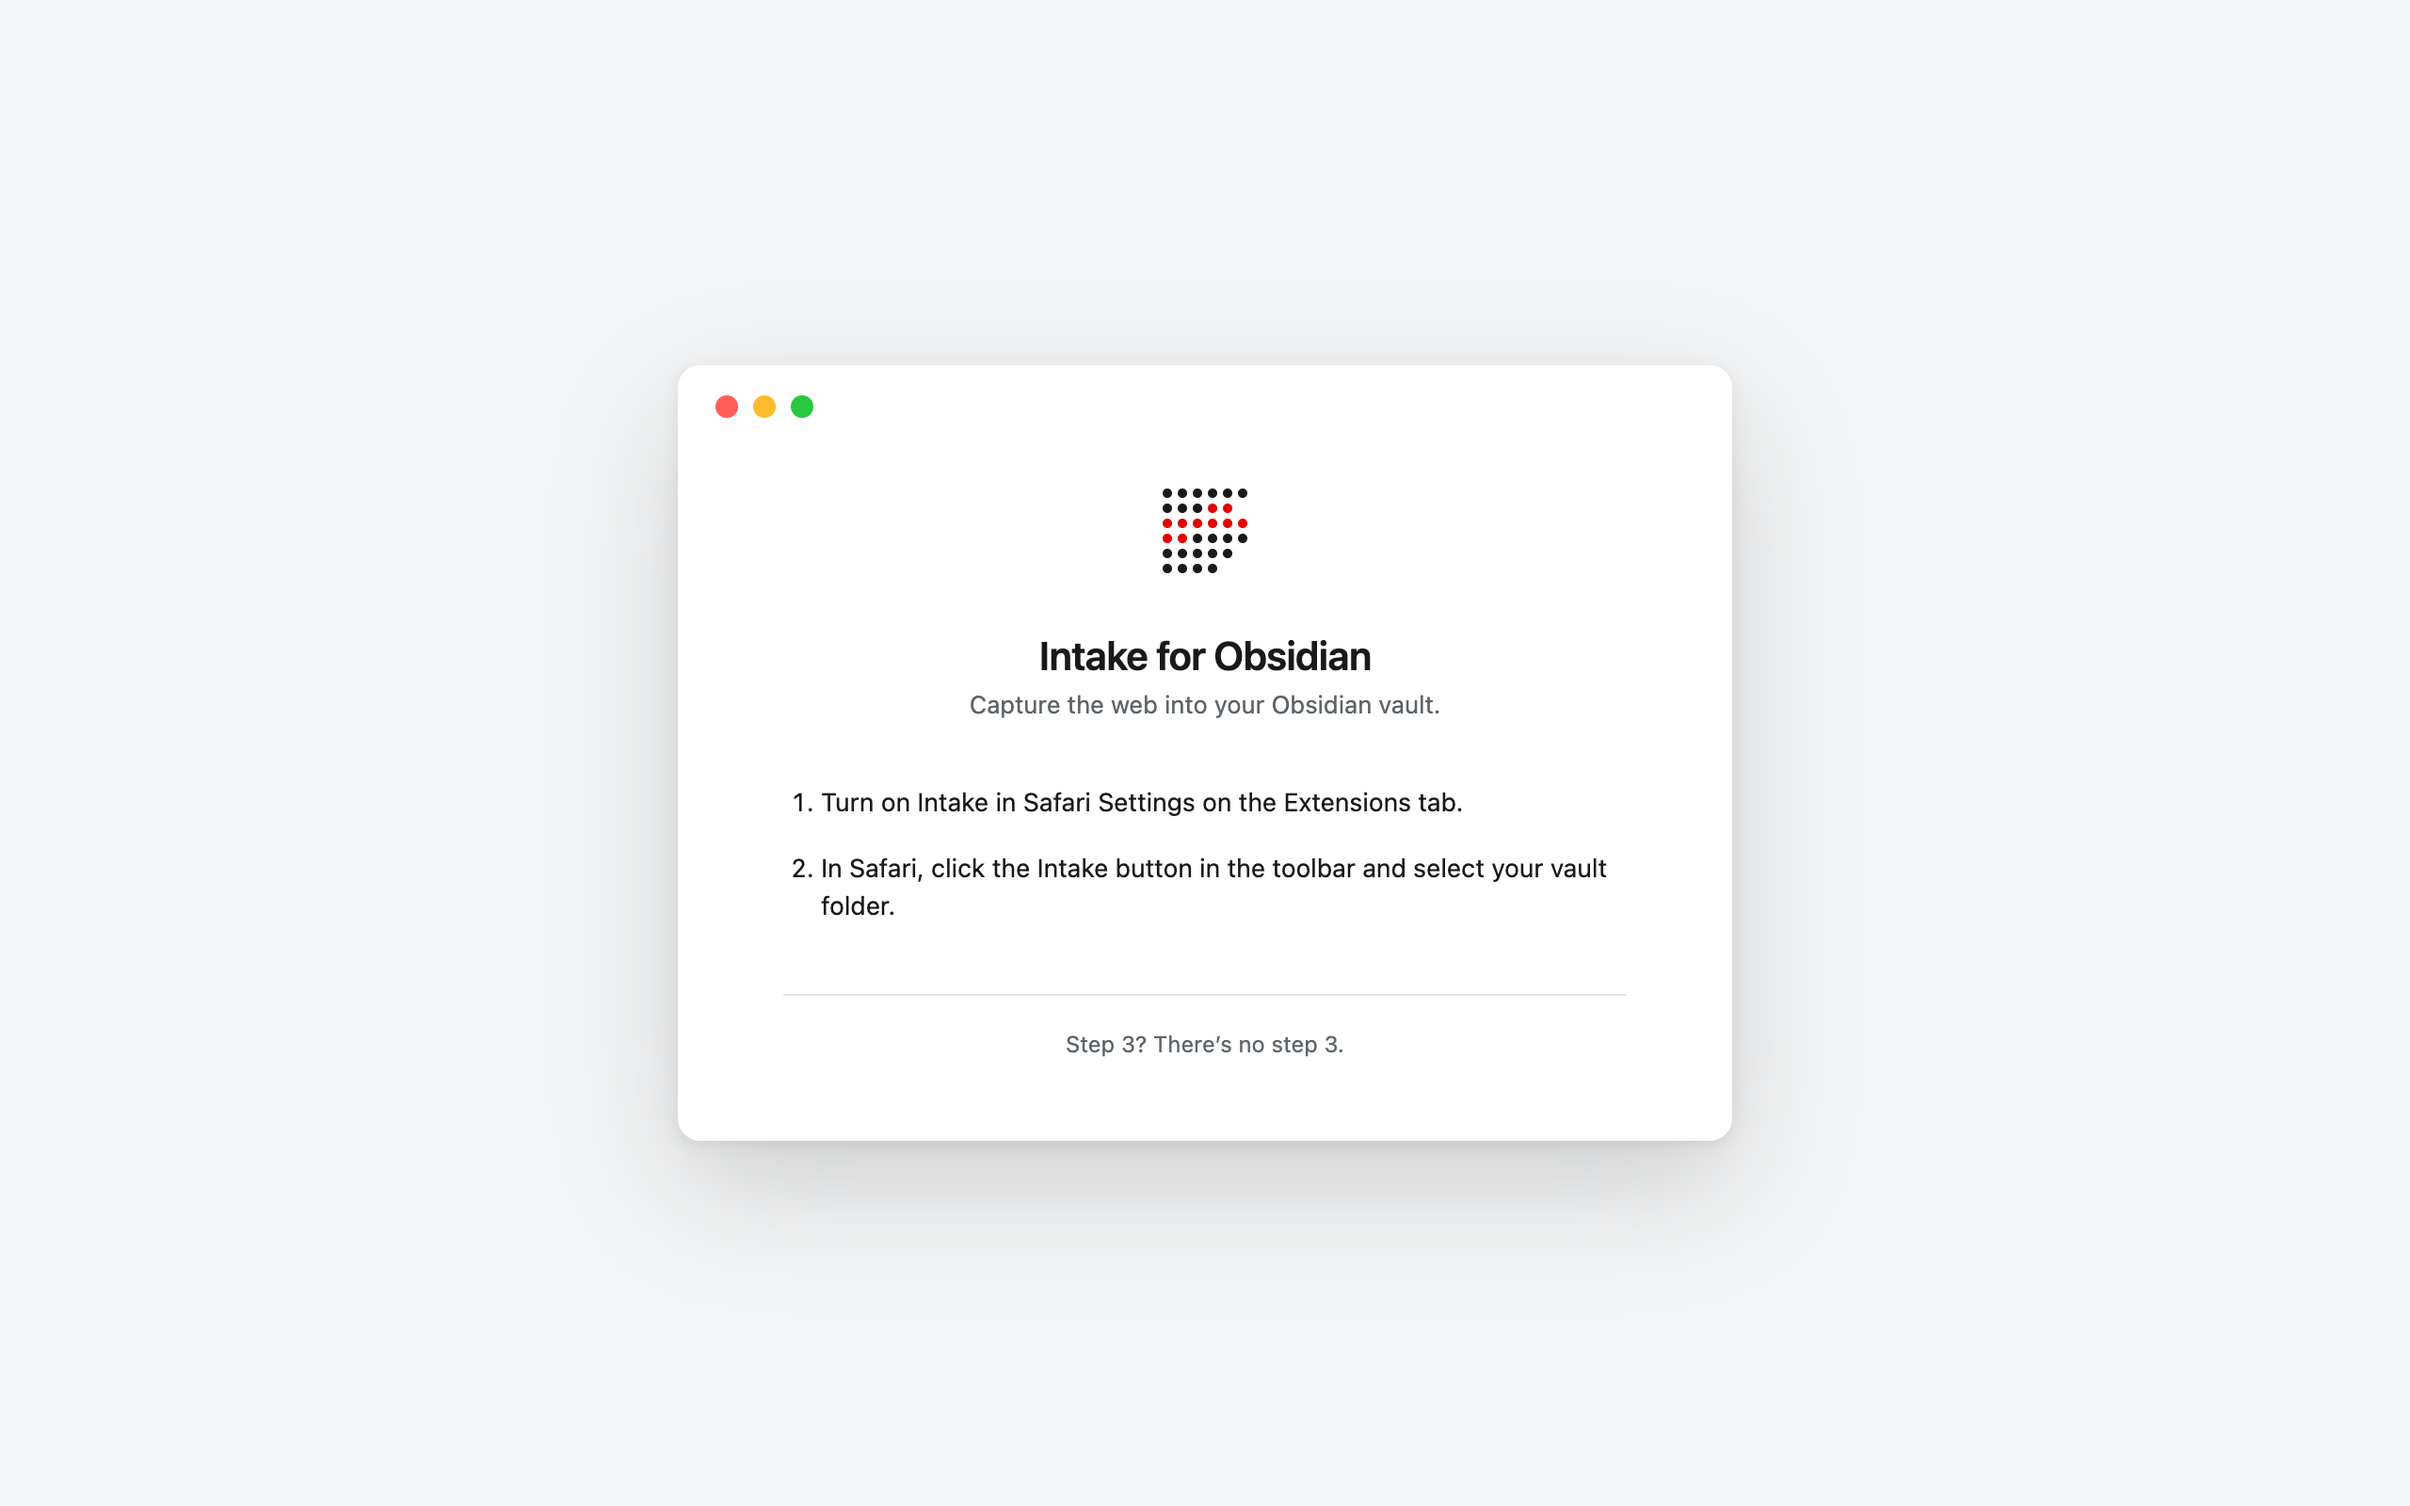
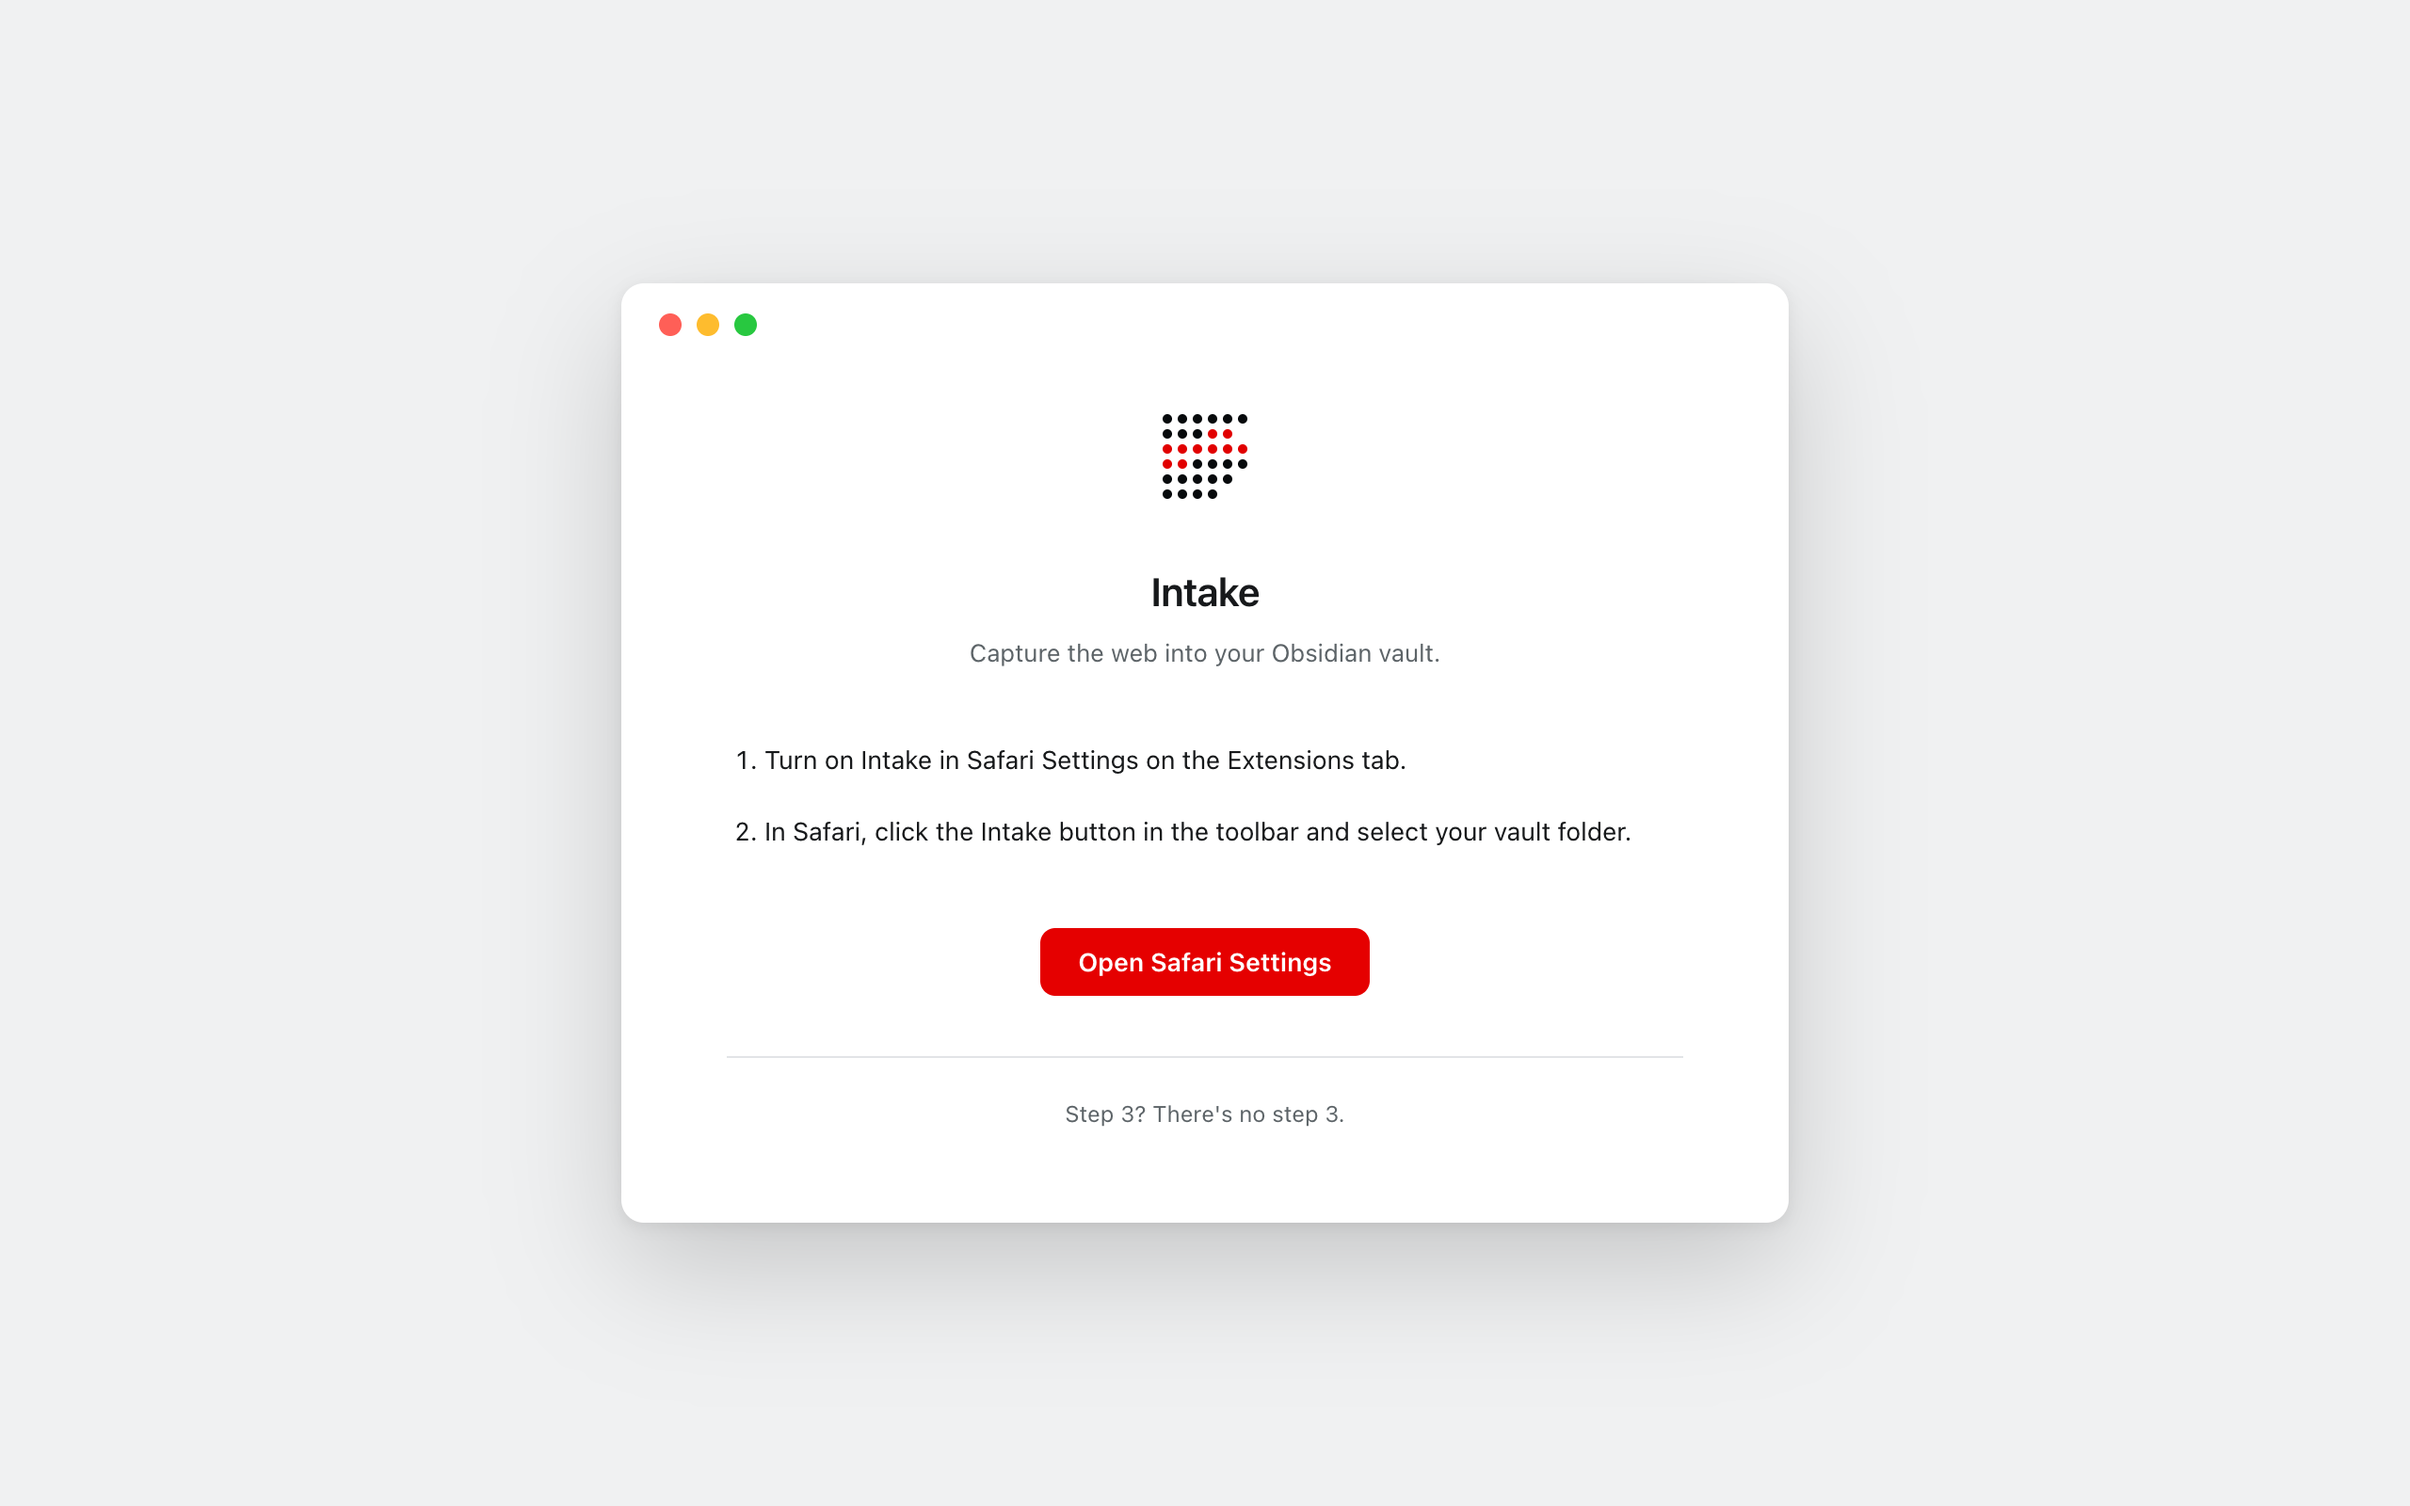
Launch window: wider (470pt) so step 1 fits one line; button hover + hand cursor
Content column 400->445px. Store screenshots regenerated for the 'Intake' naming: launch window (from the lab mockup, now 620 wide), settings page, and the popup composite with the dev-tools button erased.

diff --git a/safari/Intake for Obsidian/Intake for Obsidian/Resources/Style.css b/safari/Intake for Obsidian/Intake for Obsidian/Resources/Style.css
@@ -43,7 +43,7 @@ main {
     flex-direction: column;
     align-items: center;
     text-align: center;
-    max-width: 400px;
+    max-width: 445px;
     padding: 24px 32px 40px;
 }
 
@@ -89,6 +89,12 @@ button.open-preferences {
     font-family: inherit;
     font-size: 13.5px;
     font-weight: 600;
+    cursor: pointer;
+    transition: background 150ms ease;
+}
+
+button.open-preferences:hover {
+    background: #c40000;
 }
 
 button.open-preferences:active {
